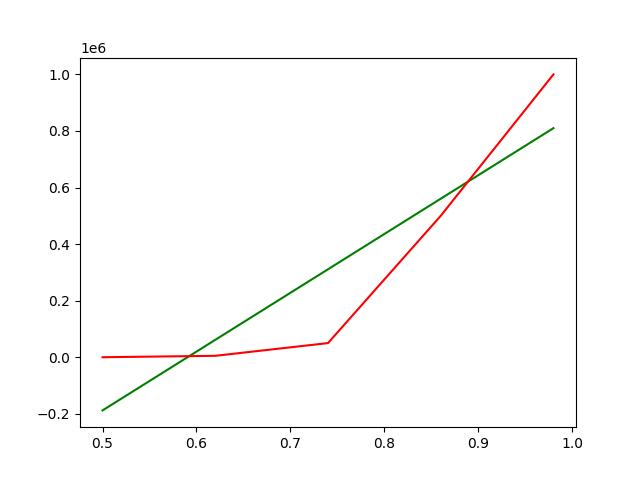
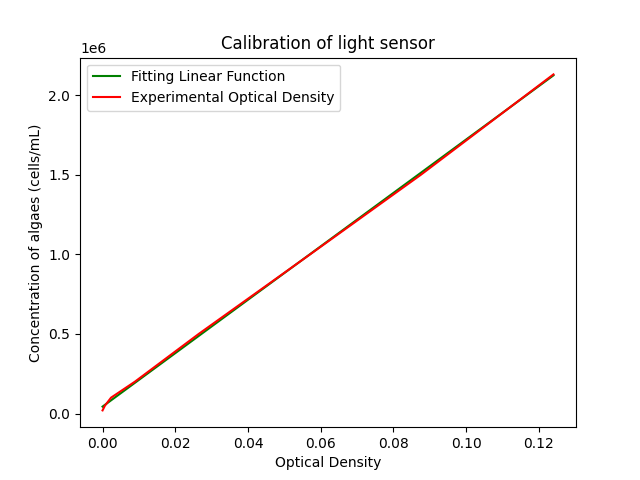
Calibration oof light sensor with linear regression

diff --git a/utilities/CalibrationLight.py b/utilities/CalibrationLight.py
@@ -18,18 +18,30 @@ import math
 
 calib = open('calibration.txt', 'r')
 data = calib.readlines()
-REF_INTENS = int(data[1])
-REF_CELLS = np.array([0, 5000, 50000, 500000, 1000000])#TODO ask Eugenia
+REF_INTENS = float(data[0])
+REF_CELLS = np.array([20000, 50000, 100000, 200000, 500000, 1000000, 1500000, 2130000])
 RAW_ODs = []
 
-for line in data[3:]:
-    RAW_ODs.append(float(line.split(',')[1]))
+def computeOD(refInten, rawInten):
+    # Apply formula for optical density
+    rawOD = (-math.log10(rawInten / refInten))
+    return rawOD
+
+for line in data:
+    intens = float(line.split()[0])
+    RAW_ODs.append(computeOD(REF_INTENS, intens))
 RAW_ODs = np.array(RAW_ODs)
+
+print(RAW_ODs)
 
 A, B = np.polyfit(RAW_ODs,REF_CELLS,1)
 print("Slope value:{} Intercept value:{}".format(A, B))
 func = A*RAW_ODs + B
 
+plt.title("Calibration of light sensor")
 plt.plot(RAW_ODs,func,color="green")
 plt.plot(RAW_ODs,REF_CELLS,color="red")
+plt.legend(["Fitting Linear Function", "Experimental Optical Density"])
+plt.xlabel("Optical Density")
+plt.ylabel("Concentration of algaes (cells/mL)")
 plt.savefig('CalibOD.png')

diff --git a/utilities/GrapherPIDLogs.py b/utilities/GrapherPIDLogs.py
@@ -13,7 +13,7 @@ Description: Script graphing the calibration of PID controller parameters.
 
 import matplotlib.pyplot as plt
 
-file = open("data/dataOvernightP8.5I2D0.2.txt")
+file = open("../data/dataOvernightP8.5I2D0.2.txt")
 dataset = file.readlines()
 timeData = []
 tempData = []
@@ -27,8 +27,10 @@ ref = 18
 plt.figure()
 plt.title("PID Controller P-->8.5 I-->2 D-->0.2")
 plt.scatter(timeData, tempData, color = 'k', alpha=0.5)
-plt.plot([0,timeData[-1]], [ref+0.5, ref+0.5], '--', color = 'g')
-plt.plot([0,timeData[-1]], [ref, ref], '--', color = 'r')
-plt.plot([0,timeData[-1]], [ref-0.5, ref-0.5], '--', color = 'b')
-plt.ylim([17,20])
+plt.plot([0,timeData[-1]], [ref+0.2, ref+0.2], '--', color = 'r')
+plt.plot([0,timeData[-1]], [ref, ref], '--', color = 'g')
+plt.plot([0,timeData[-1]], [ref-0.2, ref-0.2], '--', color = 'r')
+plt.ylim([17.5,21.5])
+plt.xlabel("Time (s)")
+plt.ylabel("Temperature (°C)")
 plt.savefig('PIDplot.png')
